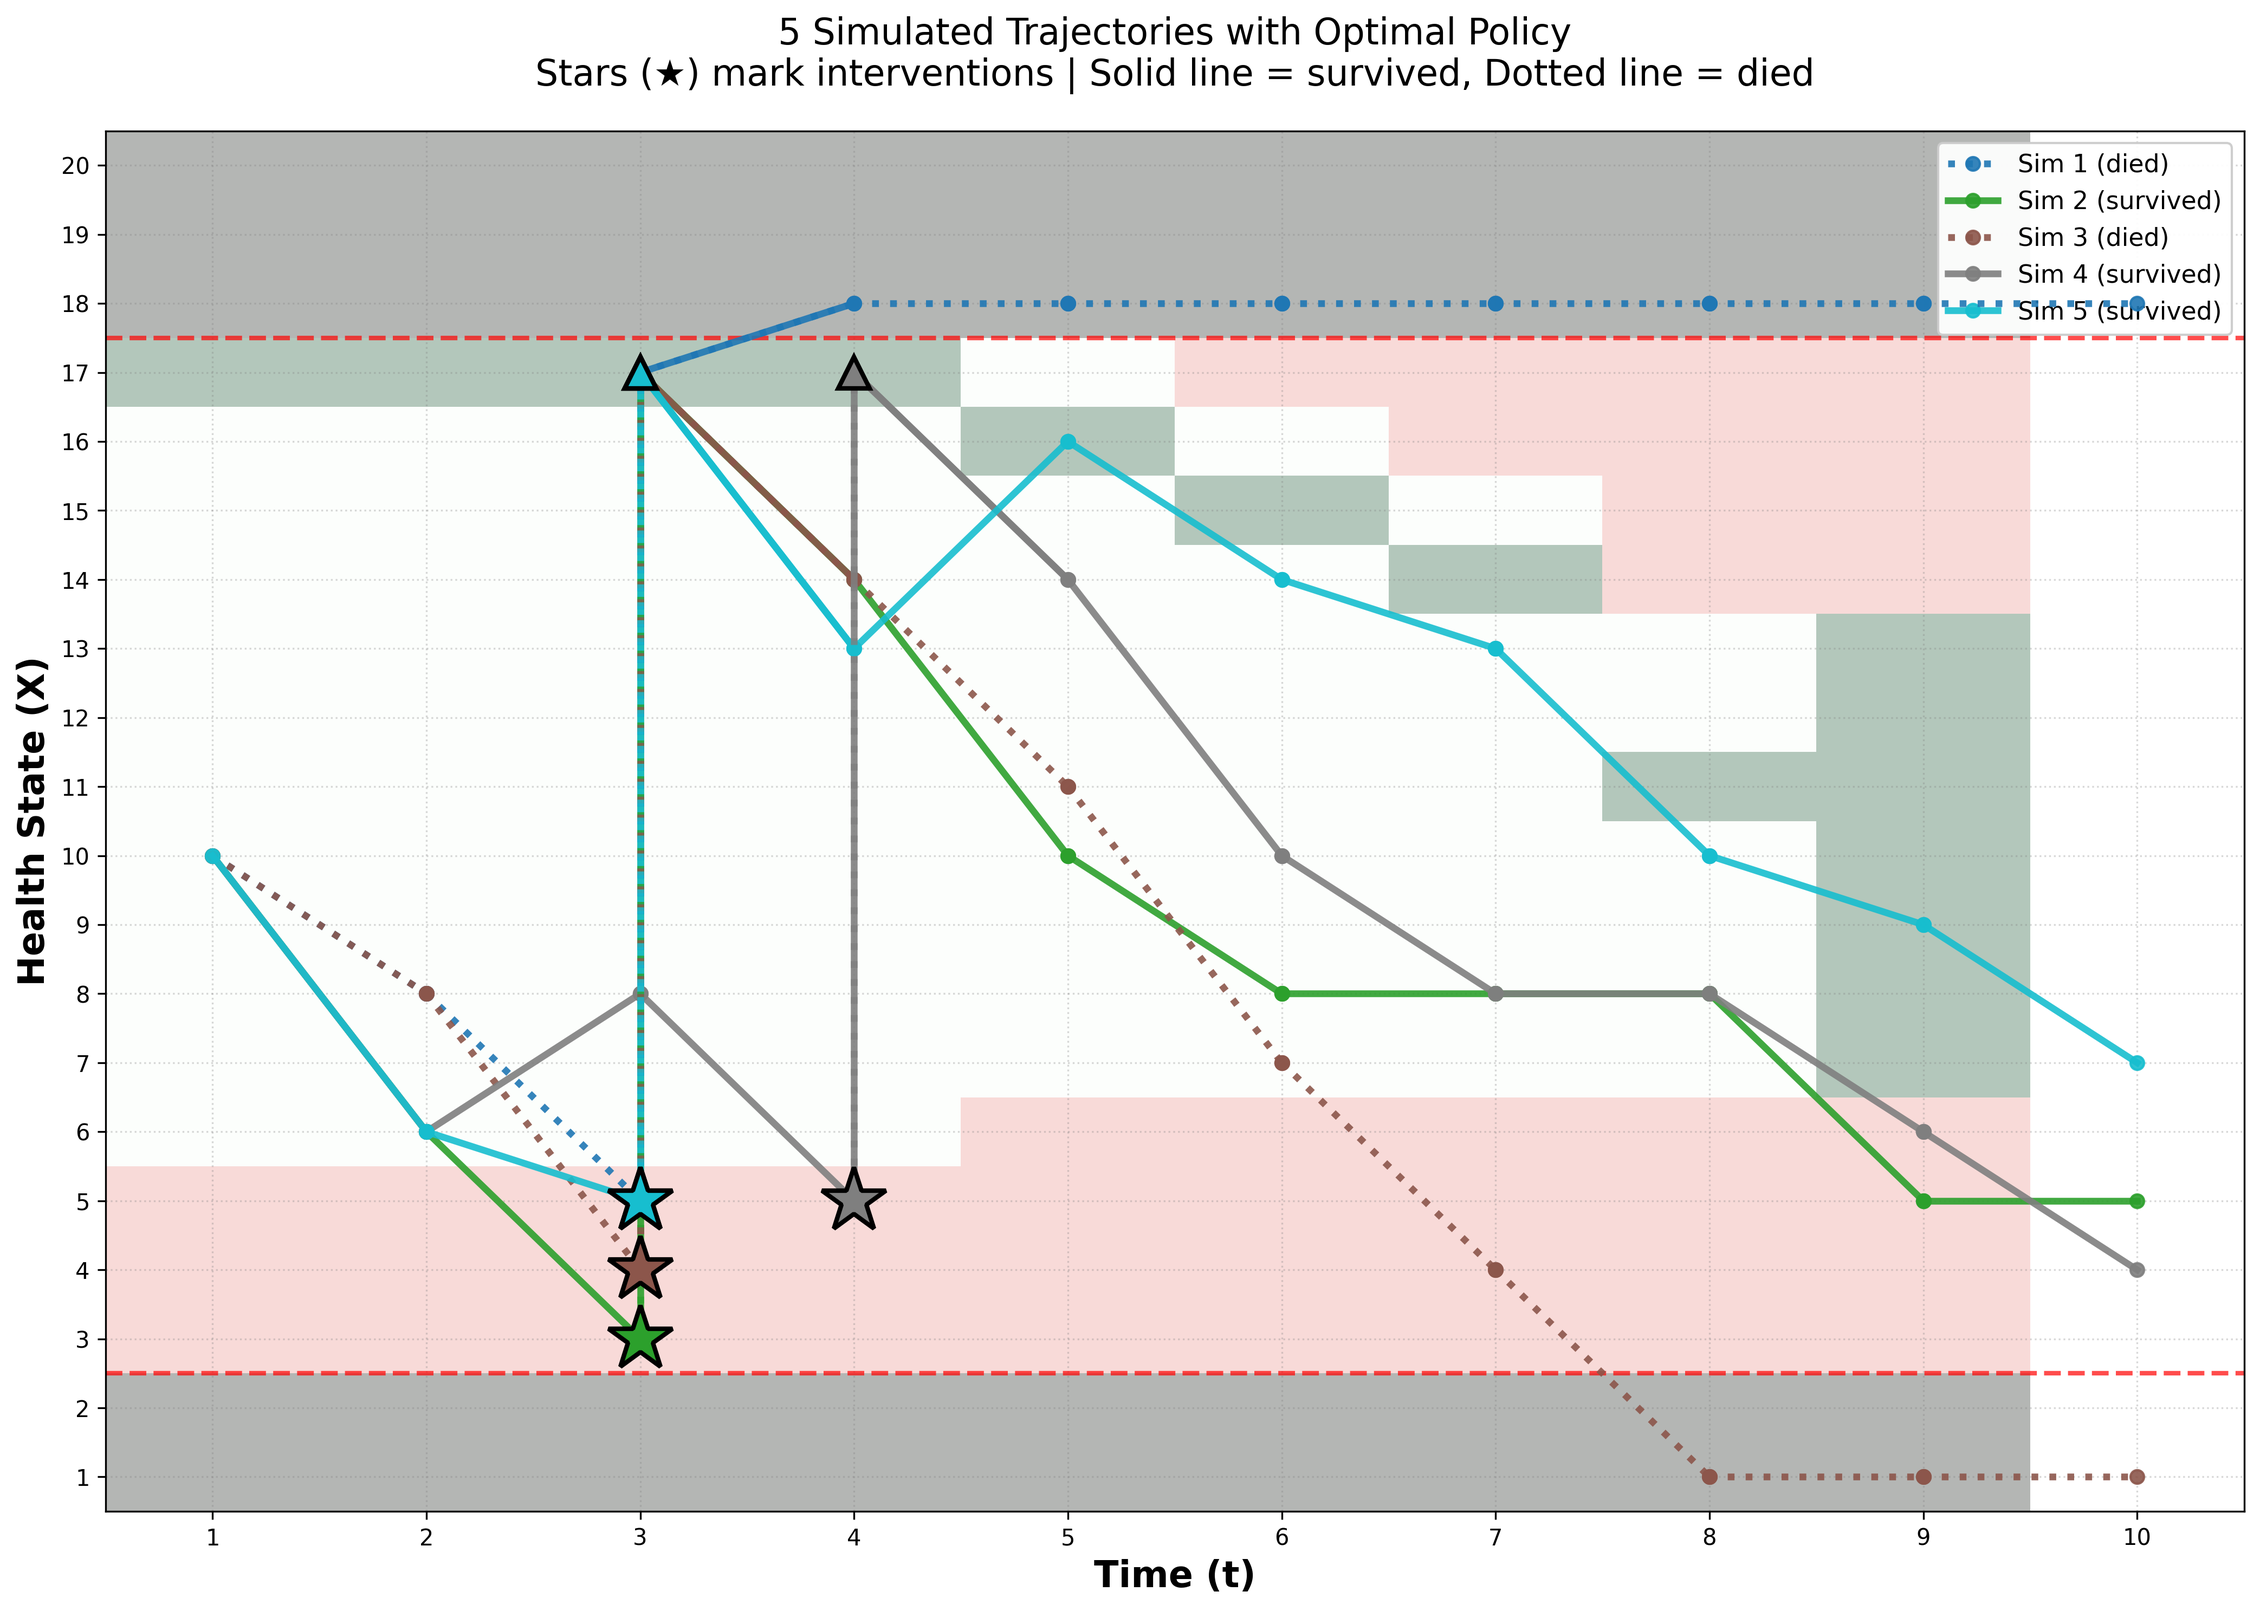
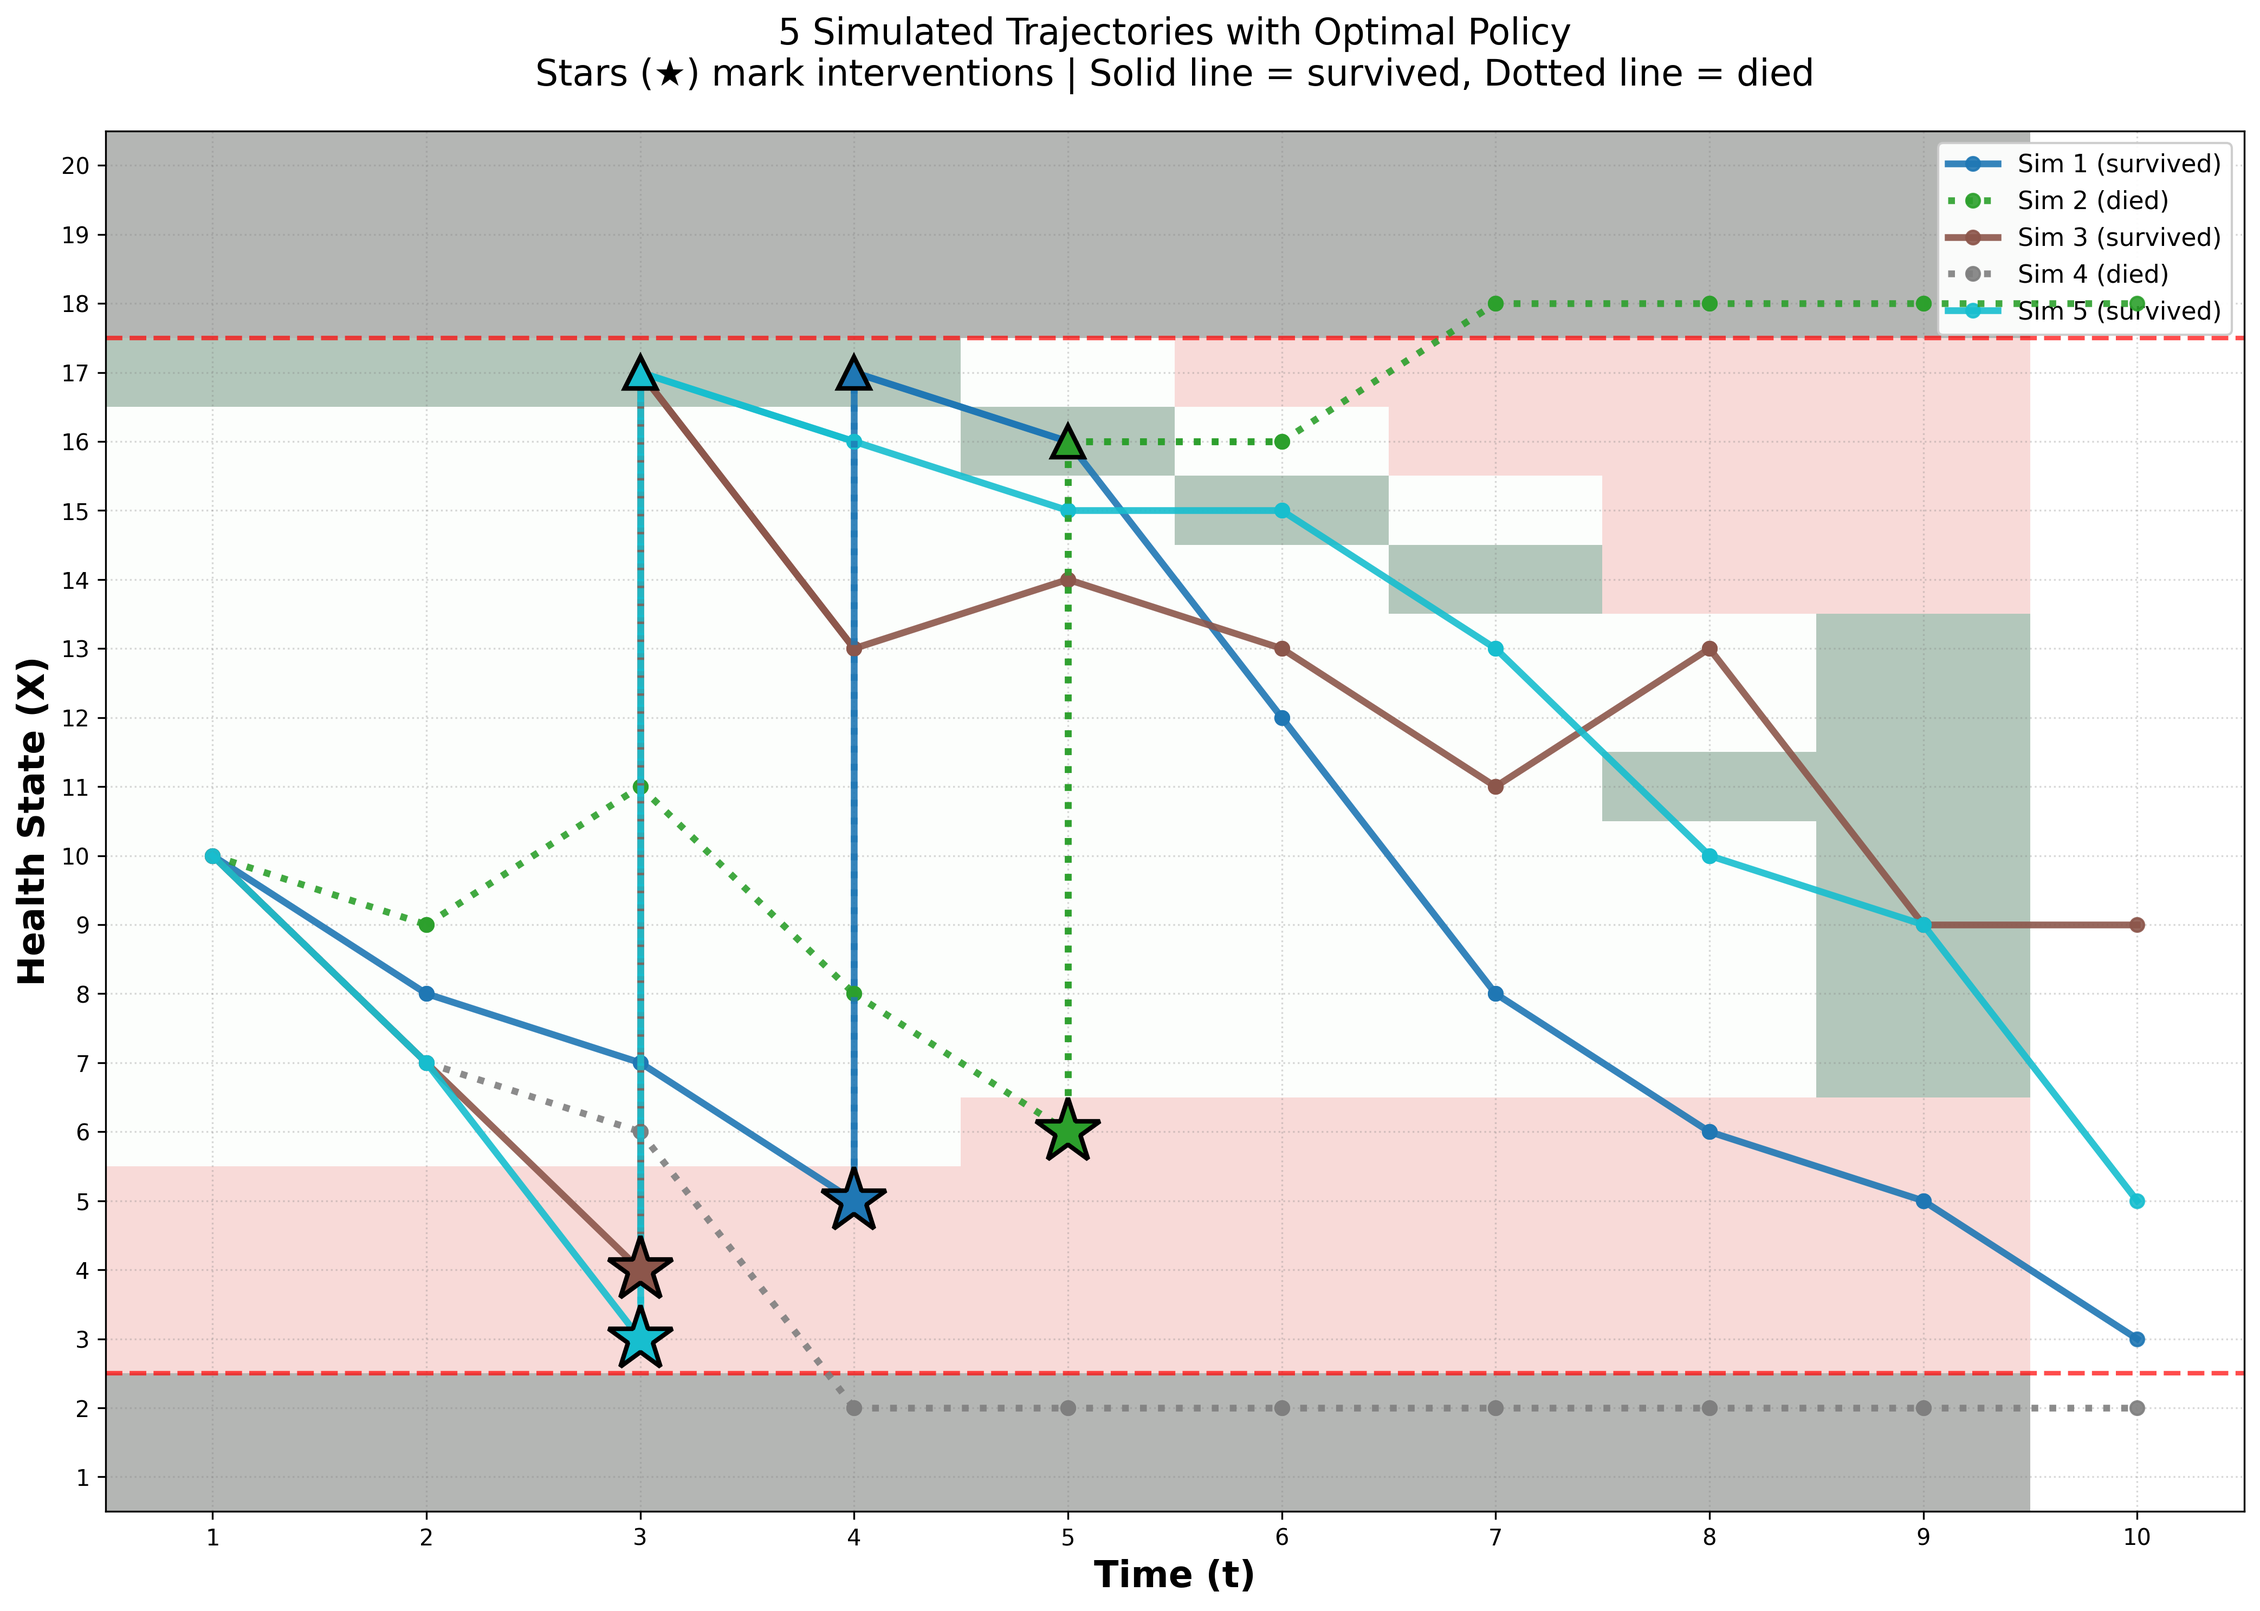
good

diff --git a/PhaseBOptimalStoppingProb/Optimal Stopping Code/Simple2D.py b/PhaseBOptimalStoppingProb/Optimal Stopping Code/Simple2D.py
@@ -537,10 +537,13 @@ class SimplifiedOptimalStopping:
                         t_next = traj['t'][target_idx + 1]
                         X_post_shock = traj['X'][target_idx + 1]
                         
+                        # Line style depends on survival: dotted if died, solid if survived
+                        post_intervention_linestyle = ':' if not survived else '-'
+                        
                         # Horizontal line: target → next time point showing shock effect
                         ax.plot([intervened_at, t_next], 
                             [X_target, X_post_shock],
-                            color=color, linestyle='-', linewidth=3, 
+                            color=color, linestyle=post_intervention_linestyle, linewidth=3, 
                             alpha=0.9, zorder=10, label='_nolegend_')
         
         # Labels and formatting
